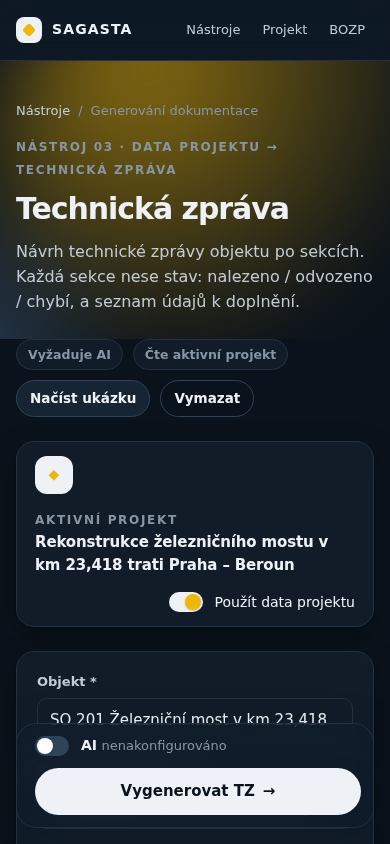
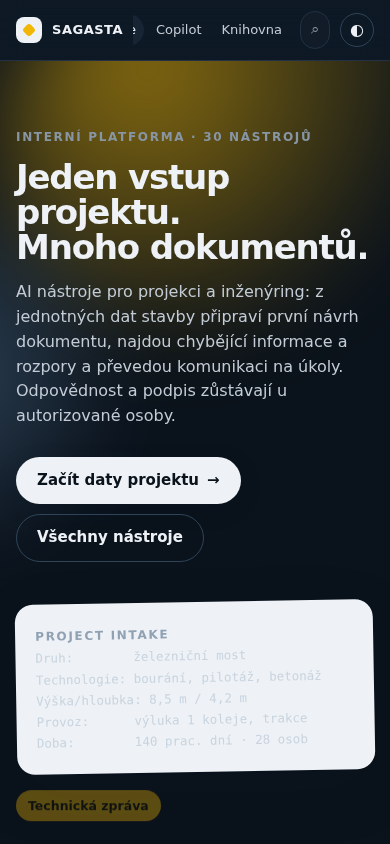
Polish: fix shortcuts for symbol keys, search ranking, mobile top bar
- "?" and "/" shortcuts work regardless of Shift (keyboard layouts)
- Hub search ranks title > flow > description, flat result list
- Top bar navigation shrinks/scrolls on narrow screens (no overflow)
- Copilot: no stray "0" when an answer has no actions
- Configurable rate limit multiplier (SAGASTA_RATE_LIMIT)
- README: all 30 tools, shortcuts, security, test coverage

Verified: 174 unit tests; production build in Chromium - all 30 tools
run via shortcuts with every export downloaded, 23 UX scenarios,
security headers, 403 cross-origin, 400 invalid export, 429 limit.

Claude-Session: https://claude.ai/code/session_01EugsErQFp8ifzVEVS6ZCrr

diff --git a/src/components/tools/ToolGrid.tsx b/src/components/tools/ToolGrid.tsx
@@ -39,11 +39,24 @@ export function ToolGrid({ tools }: { tools: ToolWithSample[] }) {
     cards[Math.min(cards.length - 1, Math.max(0, i + d))]?.focus();
   };
 
+  /** Relevance: shoda v názvu > ve „vstup → výstup“ > v popisu; všechna slova dotazu musí sedět. */
+  const rank = (t: ToolWithSample): number => {
+    const words = fold(q).split(/\s+/).filter(Boolean);
+    let s = 0;
+    for (const w of words) {
+      const title = fold(t.title);
+      const v = title.startsWith(w) ? 6 : title.includes(w) ? 4 : fold(t.flow).includes(w) ? 2 : fold(t.description).includes(w) ? 1 : 0;
+      if (!v) return 0;
+      s += v;
+    }
+    return s;
+  };
   const filtered = useMemo(
     () =>
-      tools.filter(
-        (t) => (cat === "all" || t.category === cat) && (!q || fold(`${t.title} ${t.flow} ${t.description}`).includes(fold(q))),
-      ),
+      tools
+        .filter((t) => (cat === "all" || t.category === cat) && (!q.trim() || rank(t) > 0))
+        .sort((a, b) => (q.trim() ? rank(b) - rank(a) : 0)),
+    // eslint-disable-next-line react-hooks/exhaustive-deps
     [tools, q, cat],
   );
 
@@ -111,9 +124,11 @@ export function ToolGrid({ tools }: { tools: ToolWithSample[] }) {
             <Group title="Naposledy použité" list={recent.filter((s) => !favorites.includes(s)).map((s) => tools.find((t) => t.slug === s)).filter(Boolean).slice(0, 4) as ToolWithSample[]} favorites={favorites} />
           </>
         )}
-        {ORDER.map((c) => (
-          <Group key={c} title={CATEGORY_LABEL[c]} list={filtered.filter((t) => t.category === c)} favorites={favorites} />
-        ))}
+        {q.trim() ? (
+          <Group title={`Výsledky hledání (${filtered.length}) – Enter otevře první`} list={filtered} favorites={favorites} />
+        ) : (
+          ORDER.map((c) => <Group key={c} title={CATEGORY_LABEL[c]} list={filtered.filter((t) => t.category === c)} favorites={favorites} />)
+        )}
       </div>
       <p className="small muted">
         Tip: <kbd>{formatKeys("mod+k")}</kbd> paleta příkazů · <kbd>/</kbd> hledat · <kbd>?</kbd> všechny zkratky · šipky mezi kartami

diff --git a/src/lib/security/guard.ts b/src/lib/security/guard.ts
@@ -51,7 +51,9 @@ export function guard(req: Request, opts: { bucket: string; perMinute: number; m
   if (!sameOrigin(req)) return NextResponse.json({ error: "Požadavek z cizího původu byl odmítnut." }, { status: 403 });
   const len = Number(req.headers.get("content-length") ?? 0);
   if (len > (opts.maxBytes ?? MAX_BODY_BYTES)) return NextResponse.json({ error: "Požadavek je příliš velký." }, { status: 413 });
-  if (!rateLimit(`${opts.bucket}:${clientIp(req)}`, opts.perMinute)) {
+  // SAGASTA_RATE_LIMIT násobí limity (např. 3 pro kancelář za jednou veřejnou IP)
+  const factor = Math.max(0.1, Number(process.env.SAGASTA_RATE_LIMIT ?? 1) || 1);
+  if (!rateLimit(`${opts.bucket}:${clientIp(req)}`, Math.round(opts.perMinute * factor))) {
     return NextResponse.json({ error: "Příliš mnoho požadavků – zkuste to za minutu znovu." }, { status: 429, headers: { "Retry-After": "60" } });
   }
   return null;

diff --git a/src/components/ux/hotkeys.ts b/src/components/ux/hotkeys.ts
@@ -47,7 +47,9 @@ function matches(chord: string, e: KeyboardEvent): boolean {
   const wantMod = mod ? (isMac() ? e.metaKey : e.ctrlKey) : !(e.metaKey || e.ctrlKey);
   const k = e.key.toLowerCase();
   const keyOk = key === "enter" ? k === "enter" : key === "escape" ? k === "escape" : k === key || (e.code === `Key${key.toUpperCase()}` && key.length === 1);
-  return keyOk && wantMod && parts.includes("shift") === e.shiftKey && parts.includes("alt") === e.altKey;
+  // u symbolů (?, /) je Shift součástí znaku na většině rozložení – nekontrolujeme ho
+  const symbol = key.length === 1 && !/[a-z0-9]/.test(key);
+  return keyOk && wantMod && (symbol || parts.includes("shift") === e.shiftKey) && parts.includes("alt") === e.altKey;
 }
 
 const isTyping = (t: EventTarget | null) =>

diff --git a/src/app/globals.css b/src/app/globals.css
@@ -528,3 +528,9 @@ kbd { font-family: var(--mono); font-size: 11px; line-height: 1; padding: 3px 6p
   .table th { position: static; }
   a { text-decoration: none; }
 }
+/* horní lišta na úzkých displejích – navigace se zúží a posouvá uvnitř */
+.topbar__inner { gap: 10px; }
+.topbar__nav { flex: 1 1 auto; min-width: 0; justify-content: flex-end; overflow-x: auto; scrollbar-width: none; }
+.topbar__nav::-webkit-scrollbar { display: none; }
+.brand, .kbd-btn, .theme-btn { flex: none; }
+@media (max-width: 480px) { .topbar__nav a { padding: 6px 8px; } .brand { font-size: 13px; letter-spacing: 0.04em; } }

diff --git a/src/components/copilot/Copilot.tsx b/src/components/copilot/Copilot.tsx
@@ -195,7 +195,7 @@ export function Copilot({ aiEnabled }: { aiEnabled: boolean }) {
                       ))}
                   </div>
                 )}
-                {(m.actions?.length || m.followUps?.length) && (
+                {Boolean(m.actions?.length || m.followUps?.length) && (
                   <div className="chips" style={{ marginTop: 10 }}>
                     {m.actions?.map((a) => {
                       const t = TOOLS_BY_SLUG.get(a.slug)!;

diff --git a/README.md b/README.md
@@ -1,73 +1,138 @@
 # SAGASTA AI platforma
 
-16 AI tools for design and engineering work, built on **one shared project dataset**: **one input → many documents**.
+**30 AI tools** for design, engineering and construction work, built on **one shared project dataset**: **one input → many documents**.
 The AI prepares drafts, finds missing information and inconsistencies, and turns communication into tasks. Deterministic checks run in code even without AI. Responsibility for regulated content stays with an authorised person.
 
 ![Rozcestník](docs/screenshots/hub.png)
 
-## Tools
+## The 30 tools
 
 | # | Tool | Input → output | Without AI |
-| --- | --- | --- | --- |
-| 01 | **Katalog nebezpečí** | Construction → controlled hazard catalogue, P×Z, measures, obligations under Act 309/2006 Coll. | ✅ full rules engine |
-| 02 | **Extrakce dat projektu** | PDF/DOCX documentation → project data (the active project for all tools) | ✅ labels, objects, quantities, dates |
-| 03 | **Technická zpráva** | Project data + sources (+ a reference project) → technical report by section, with status found / inferred / missing | ◐ outline pre-filled from the sources |
-| 04 | **Zásady organizace výstavby** | Project data → ZOV (transport, land take, waste, earthworks balance, traffic measures, BOZP, schedule) | ◐ outline pre-filled from the sources |
-| 05 | **Technologický postup / postup bourání** | Activity → steps, checks, machinery, waste; safety linked to the hazard library | ◐ related hazards from the library |
-| 06 | **Kontrola konzistence** | Several documents → conflicting areas, volumes, dates, SO/PS objects | ✅ |
-| 07 | **Detektor chybějících informací** | Document → unfilled places, vague wording, questions for the designer | ✅ |
-| 08 | **Kontrola požadované struktury** | Documentation → check against a controlled outline (building permit / technical report / ZOV) | ✅ by headings and keywords |
-| 09 | **Porovnání revizí** | Version A + B → changed passages, objects, numbers; AI adds consequences | ✅ |
-| 10 | **Registr připomínek** | Client comments (+ a revision) → register with actions, and a check of whether each was actually addressed | ◐ splits the comments |
-| 11 | **Zápis z jednání a úkoly** | Transcript / notes → minutes, decisions, tasks with deadlines (Excel) | AI |
-| 12 | **E-mail → úkol** | E-mail → tasks, priority, deadline, draft reply | AI |
-| 13 | **Korespondence a RFI** | Rough notes → RFI / formal reply / response to an authority as a letter (DOCX) | AI |
-| 14 | **Porovnání nabídek** | Bids A, B, C… → comparison table, exclusions, deviations; **does not pick a winner** | ✅ price, duration, warranty, exclusions |
-| 15 | **Kontrola výkazu výměr** | BOQ (XLSX/CSV/PDF) + documentation → duplicates, zero quantities, bad products, units | ✅ |
-| 16 | **PDF → Excel** | Tables in PDF → clean XLSX | ◐ tables from the PDF text layout |
+|---|---|---|---|
+| **Project data** ||||
+| 01 | Extrakce dat projektu | PDF/DOCX → project data (the active project for all tools) | ✅ |
+| 02 | Dotčené orgány a podklady | Type of construction + conditions → authorities, site-operator and utility statements, permits | ✅ rule database |
+| 03 | Vyhledávání v projektech | Query → passages from previous projects (BM25) + answer with citations | ✅ |
+| 04 | Pojmenování a třídění souborů | Pile of files → naming convention, duplicates (SHA-256), revisions, **ZIP of renamed files** | ✅ |
+| 05 | PDF → Excel | Tables in PDF → XLSX | ◐ PDF layout |
+| 30 | **Projektový Copilot** | Question → answer from the active project and the local library, with sources and actions | ✅ search |
+| **Generating documents** ||||
+| 06 | Technická zpráva | Project data → technical report by section (found / inferred / missing) | ◐ outline from the sources |
+| 07 | Zásady organizace výstavby | Project data → ZOV in all required areas | ◐ |
+| 08 | Technická specifikace | Material + requirements → product-neutral specification | AI |
+| 09 | Starý projekt → nový projekt | Document from an earlier project + new facts → adapted draft, % reusable | ✅ reusability analysis |
+| **Documentation checks** ||||
+| 10 | Kontrola konzistence | Documents → conflicting numbers, dates, SO/PS objects | ✅ |
+| 11 | Detektor chybějících informací | Document → unfilled places, vague wording, questions | ✅ |
+| 12 | Kontrola požadované struktury | Documentation → check against the outline (building permit / technical report / ZOV) | ✅ |
+| 13 | Porovnání revizí | Version A + B → changes, objects, numbers, consequences | ✅ |
+| 14 | Kontrola výkazu výměr | BOQ + documentation → duplicates, products, units | ✅ |
+| **Construction and BOZP** ||||
+| 15 | Katalog nebezpečí | Construction → controlled hazard catalogue P×Z, obligations under Act 309/2006 Coll. | ✅ |
+| 16 | Technologický postup | Activity → steps, checks, safety linked to the hazard library | AI |
+| 17 | Postup bourání | Structure → demolition sequence, stability, waste | AI |
+| 18 | Zápis z kontrolního dne | Photos + voice note → site inspection report | AI (vision) |
+| 19 | Fotografie → možné problémy | Photos → possible BOZP / quality / organisation issues | AI (vision) |
+| 20 | Soupis vad a nedodělků | Photos + notes → defects and unfinished items by object | ✅ from notes |
+| 21 | Předávací dokumentace | Handover documents → completeness check for the type of construction | ✅ |
+| **Office and communication** ||||
+| 22 | Zápis z jednání | Transcript → minutes, decisions, tasks | AI |
+| 23 | Úkoly z jednání | Transcript → tasks by person (Excel) | ✅ commitments by wording |
+| 24 | E-mail → úkol | E-mail → tasks, priority, deadline, draft reply | AI |
+| 25 | Technický dotaz (RFI) | Problem → formal RFI | AI |
+| 26 | Formální odpověď | Rough notes → formal letter | AI |
+| 27 | Odpověď úřadu | Authority request → point-by-point response | AI |
+| 28 | Registr připomínek | Comments + revision → register and a check that each was addressed | ◐ |
+| 29 | Porovnání nabídek | Bids → comparison table, exclusions, deviations (**does not pick a winner**) | ✅ |
 
-Every tool has a **"Načíst ukázku"** (load sample) button with sample data for a fictional project (the reconstruction of a railway bridge), and exports to **Word** and, where it has tables, to **Excel**.
+Every tool has sample data (**Alt+S**), exports to **Word** / **Excel**, a history of results and autosave of drafts.
 
-![Technická zpráva](docs/screenshots/technical-report.png)
-![Kontrola konzistence](docs/screenshots/consistency.png)
+![Copilot](docs/screenshots/copilot.png)
+![Pojmenování souborů](docs/screenshots/naming.png)
+
+## Operation and keyboard shortcuts
+
+| Shortcut | Action |
+|---|---|
+| **⌘/Ctrl + K** | Command palette – every tool and action |
+| **?** | List of all shortcuts |
+| **⌘/Ctrl + Enter** | Run the tool |
+| **Esc** | Cancel processing |
+| **Alt + S** / **Alt + ⌫** | Load sample / clear form |
+| **Alt + F** / **Alt + A** | Favourite tool / AI on-off |
+| **⌘/Ctrl + ⇧ + E / X / C / P / Z** | Word / Excel / copy text / print or PDF / ZIP of renamed files |
+| **g h · g p · g c · g k · g b** | Tools · project · Copilot · library · BOZP |
+| **/** | Search (tools, library, Copilot) |
+| **⌘/Ctrl + ⇧ + L** | Theme: system / light / dark |
+
+Also:
+- drag files anywhere on the page (they are routed to the right field automatically), or paste photos from the clipboard;
+- photos are downscaled in the browser to 1600 px before upload;
+- a **"Z knihovny"** button adds documents from the local library to any tool;
+- the hub has favourite and recently used tools, and arrow-key navigation between cards;
+- results have a table of contents, a severity filter, "copy table for Excel" (TSV) and print styles.
+
+## Security
+
+- **Access:** optional password for the whole app (`SAGASTA_PASSWORD`, HTTP Basic, constant-time comparison). SSO at the proxy level is recommended for production.
+- **Headers:** CSP (`default-src 'self'`, `frame-ancestors 'none'`, `object-src 'none'`), HSTS, `nosniff`, `X-Frame-Options: DENY`, Referrer-Policy, Permissions-Policy; `no-store` on the API.
+- **API:**
+  - same-origin check (CSRF);
+  - rate limiting per IP (`SAGASTA_RATE_LIMIT` = multiplier);
+  - body size limits;
+  - zod validation of every input, including exported reports (size limits).
+- **Files:**
+  - the actual type is checked by magic bytes, and the extension must match the content (a fake `.pdf` is skipped);
+  - at most 4 files are processed in parallel;
+  - SHA-256 hashes are used for duplicates.
+- **AI:**
+  - document contents are marked as data, not instructions (a prompt-injection guard);
+  - document names are escaped;
+  - values outside the controlled lists are dropped, not trusted.
+- **Excel/CSV:** cells starting with `= + - @` are neutralised (formula injection).
+- **Data:** the active project, library, history and drafts are stored **only in the user's browser** (localStorage / IndexedDB). The server stores nothing; documents go only to the Claude API.
 
 ## Architecture
 
 ```
-src/lib/project/intake.ts        shared Project Intake (zod) + store.ts (active project in the browser)
-src/lib/tools/registry.ts        metadata for all tools: inputs, samples, categories
-src/lib/tools/report.ts          one output model (Report) for all tools
-src/lib/tools/analyzers/         deterministic checks: quantities, SO/PS, milestones, placeholders, BOQ, revisions
-src/lib/tools/templates.ts       outlines for the technical report, ZOV, TP and demolition + structure rules
-src/lib/tools/lenient.ts         tolerant repair of AI output before validation (see below)
-src/lib/tools/server/            file extraction (PDF/DOCX/XLSX), Claude runner, handlers, DOCX/XLSX export
-src/lib/hazards/                 hazard catalogue (controlled library, rules, AI merge)
-src/app/nastroje/[slug]          generic tool page · src/app/api/tools/[slug] generic API
+src/lib/project/            shared Project Intake + active project (store.ts)
+src/lib/tools/registry.ts   metadata for all 30 tools (inputs, samples, order)
+src/lib/tools/report.ts     one output model + ReportSchema for export
+src/lib/tools/analyzers/    deterministic checks (quantities, SO/PS, milestones, BOQ, revisions…)
+src/lib/tools/rules.ts      handover, authorities, specification, document types
+src/lib/tools/search.ts     BM25 full-text (server and browser)
+src/lib/tools/lenient.ts    tolerant repair of AI output
+src/lib/tools/server/       files (PDF/DOCX/XLSX/images), Claude, handlers, export
+src/lib/security/guard.ts   rate limit, same-origin, size limits
+src/middleware.ts           optional password
+src/components/ux/          palette, shortcuts, toasts
+src/lib/{library,history,idb,prefs}.ts   local data in the browser
 ```
 
-**Files:** PDFs go to Claude as documents (it sees drawings and tables) and also have their text extracted for the deterministic checks. DOCX goes through mammoth; XLSX and CSV through exceljs (formulas are read as results).
-
-**AI:** the model is `claude-opus-5` (override with `ANTHROPIC_MODEL`). It uses streaming, adaptive thinking, structured output, server-side fallback on refusals, and a cached system prompt.
-
-**Tolerant output:** the SDK converts `enum` values in the schema into description text only, so the API does not enforce them. Before validation, `lenient.ts` therefore:
-- matches values that are close (case, diacritics);
-- drops list items with an unknown ID (so the hazard catalogue can never contain a hazard outside the library);
-- replaces other invalid values with a safe default.
-
-A single bad value no longer throws away the whole response.
+**AI:** the model is `claude-opus-5` (`ANTHROPIC_MODEL`). It uses streaming, adaptive thinking, structured output with tolerant repair, server-side fallback on refusals, a cached system prompt, and vision for photos.
 
 ## Running
 
 ```bash
 npm install
-cp .env.example .env.local   # ANTHROPIC_API_KEY (optional – without it only deterministic checks run)
+cp .env.example .env.local   # ANTHROPIC_API_KEY, optionally SAGASTA_PASSWORD
 npm run dev                  # http://localhost:3000
-npm test                     # 88 tests: analyzers, all tools with and without AI (stub), exports
-npm run build
+npm test                     # 174 tests
+npm run build && npm start
 ```
+
+## Test coverage
+
+- **Unit tests (174):**
+  - every tool with AI off and with a stub AI returning deliberately messy data;
+  - Word and Excel export of every report;
+  - export schema validation;
+  - analyzers, BM25, lenient repair;
+  - security (rate limit, CSRF, size, formulas, fake file types, escaping, password middleware).
+- **Browser (Playwright, production build):** all 30 tools from the hub, run with shortcuts, every export downloaded, no console errors, no horizontal overflow on mobile, plus 25 UX scenarios (palette, shortcuts, drafts, history, favourites, theme, library → Copilot, clipboard, drag and drop).
+- **Not verified:** calls to the real Claude API. There is no key in the test environment; run each AI tool once with a real key before first use.
 
 ## Notes for production use
 
-- The **outlines** (technical report, ZOV, building permit structure) and the **hazard library** are internal templates derived from Decree 131/2024 Coll. and the BOZP regulations. Before production use, the template owner has to confirm them against the current law.
-- Without an API key, the tools marked "AI" return only a basic summary. The live Claude path is covered by tests with a stub client. It needs to be tried once against the real API with a key.
-- Project data and drafts stay in the browser (localStorage). Documents are sent only to the server and to the Claude API.
+- The outlines (technical report, ZOV, structure check), the hazard library and the rules for authorities and handover are internal templates. Their owner has to confirm them against the current law. Authority competences in particular are phrased as "verify".
+- The rate limit is kept in the process memory. For several instances, use a shared store (Redis).
